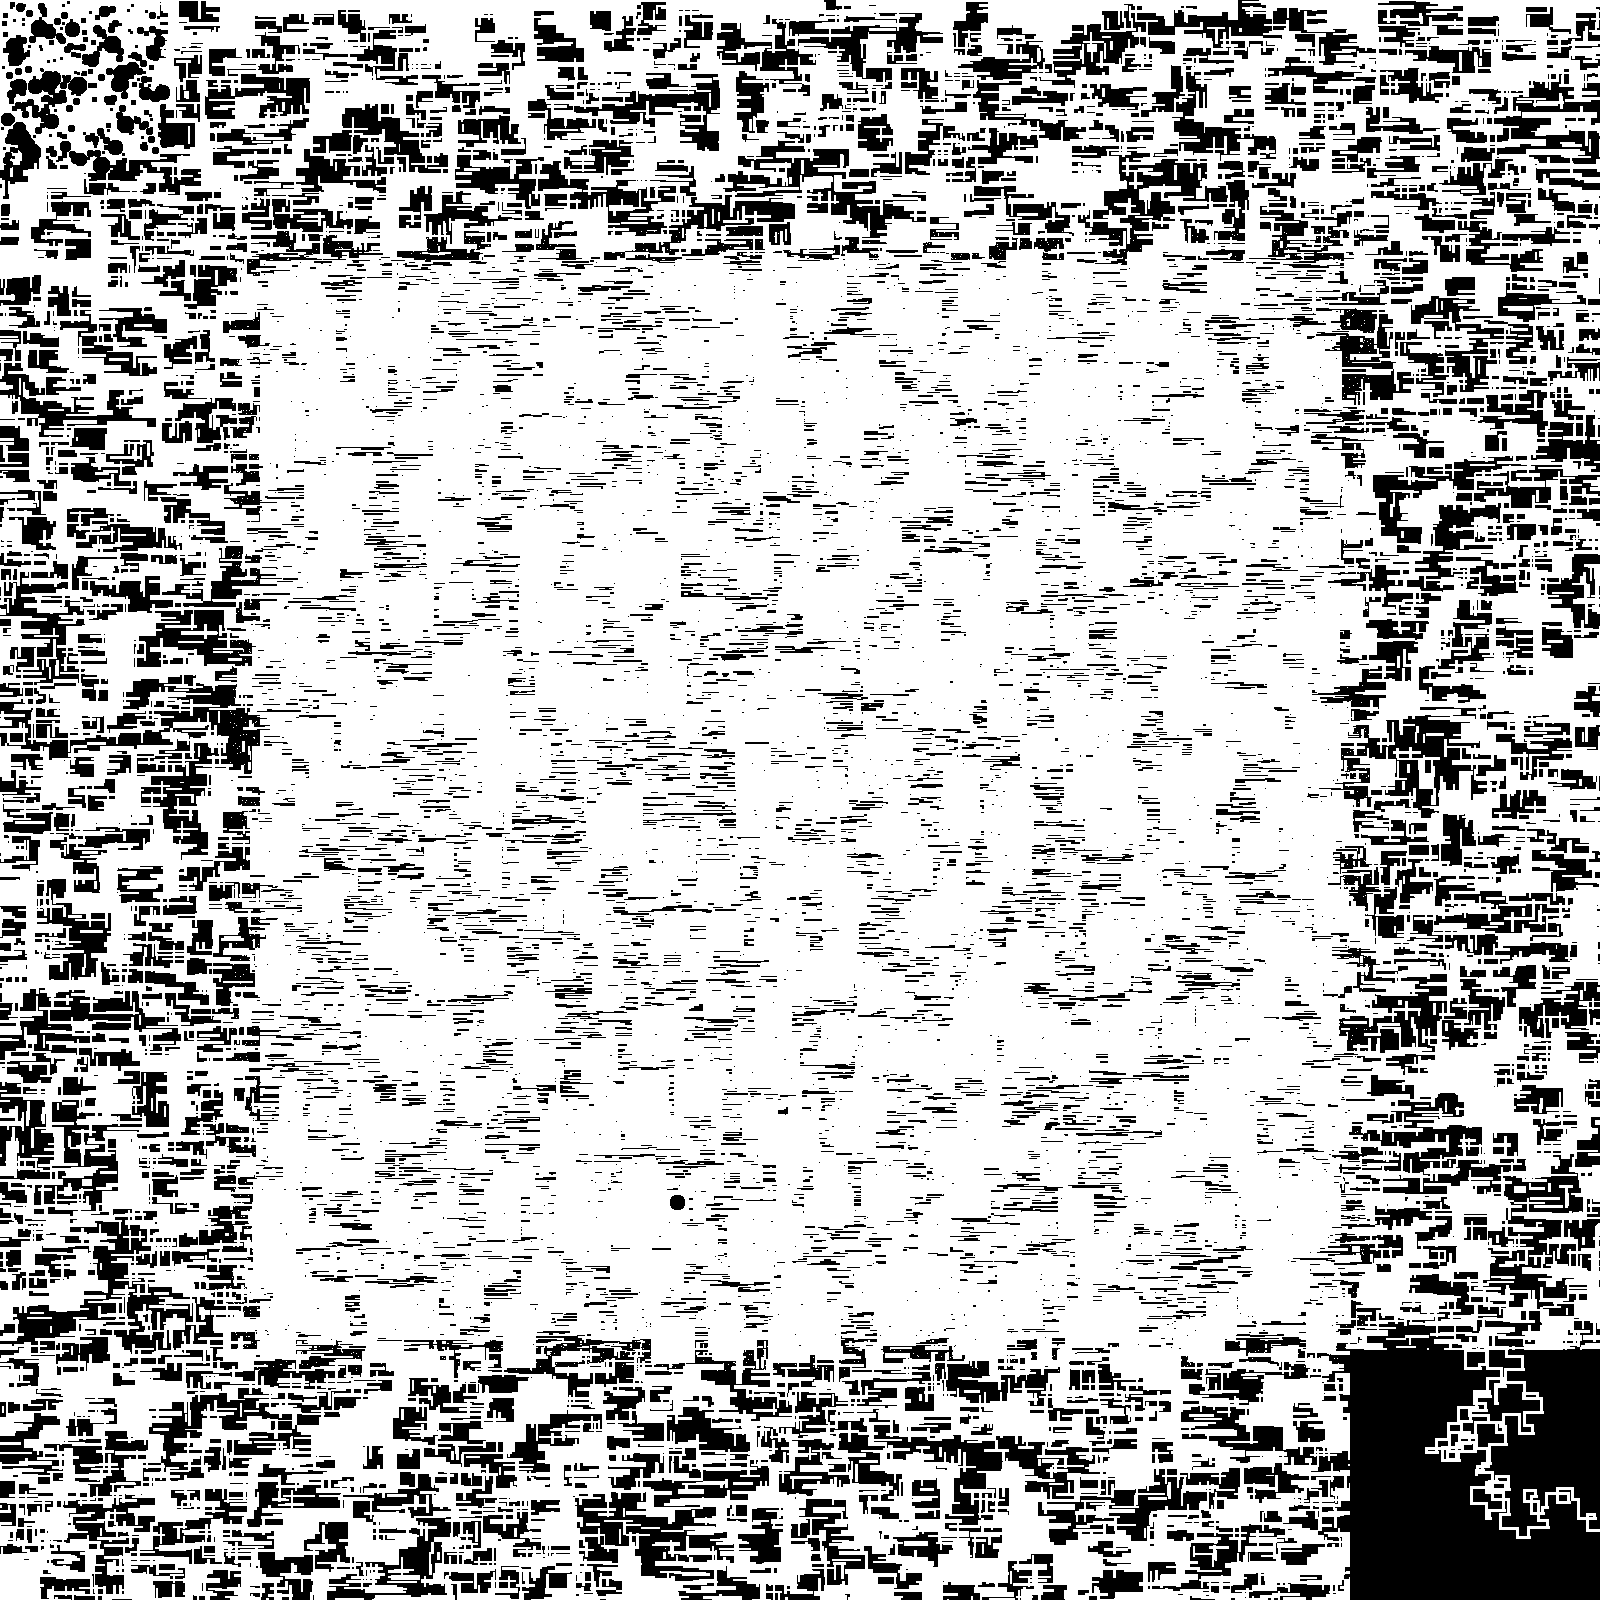
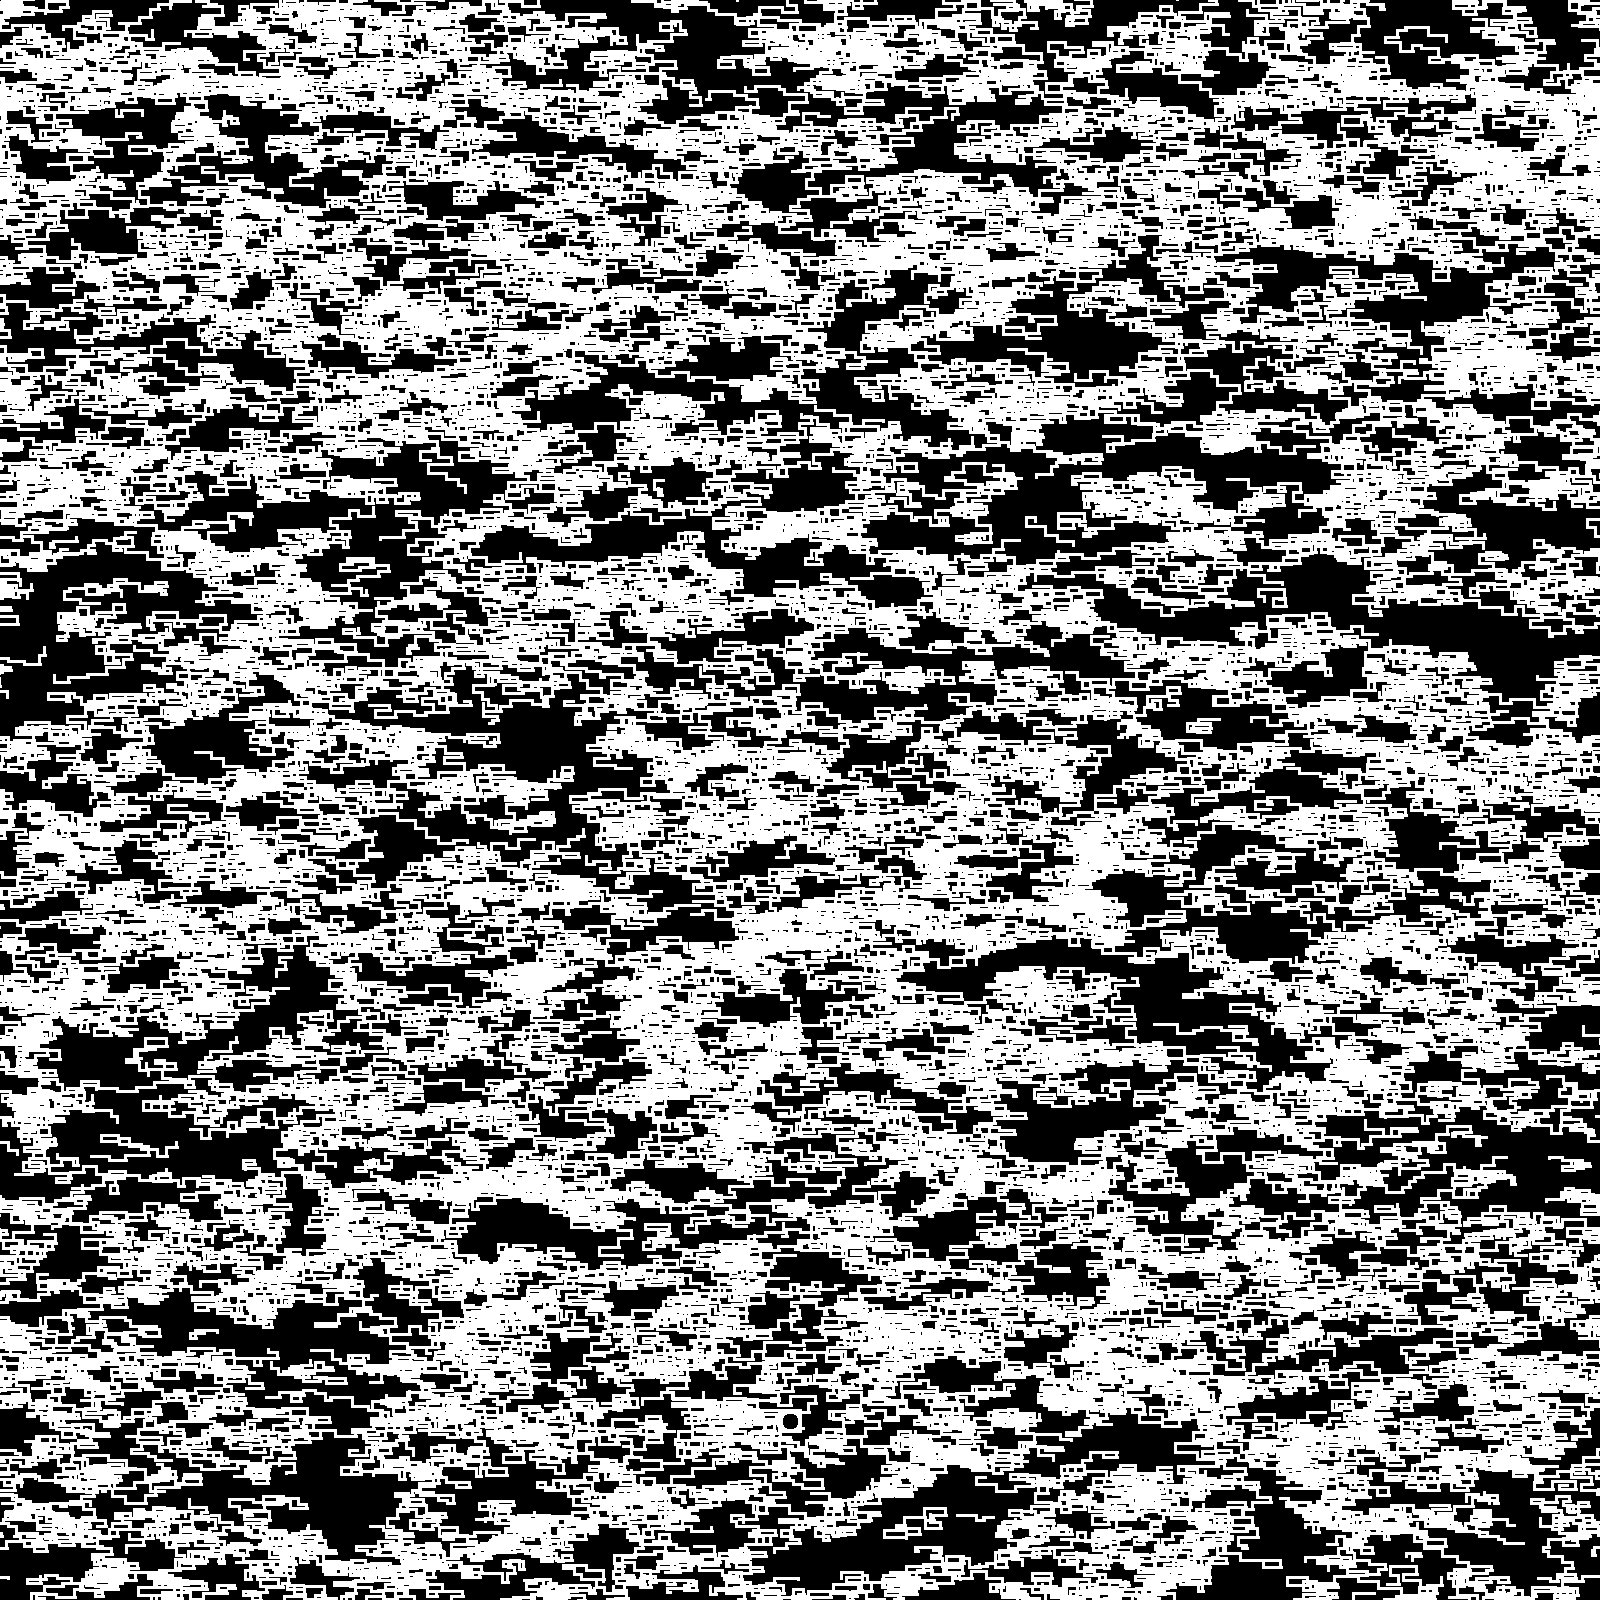
snakes 4 real

diff --git a/map.js b/map.js
@@ -97,7 +97,7 @@ exports.Map.prototype = {
   		}
   	}
 	},
-  circle: function circle(numb,pos_xMin, pos_xMax, pos_yMin, pos_yMax, circleRadiusMin, circleRadiusMax, colourMin, colourMax) {
+  circle: function circle(numb, pos_xMin, pos_xMax, pos_yMin, pos_yMax, circleRadiusMin, circleRadiusMax, colourMin, colourMax) {
     var TSize = (pos_xMax - pos_xMin)*(pos_yMax - pos_yMin);
     var num = Math.floor(TSize/numb);
     for (var y = 0; y < num; y++) {    
@@ -128,32 +128,42 @@ exports.Map.prototype = {
         }
       }
     }
+  },randomSnakes: function randomSnakes(numb, segMin, segMax, posXMin, posXMax, posYMin, posYMax, lengthXMin, lengthXMax, lengthYMin, lengthYMax, thickX, thickY, colourMin, colourMax) {
+    var TSize = (posXMax - posXMin)*(posYMax - posYMin);
+    var num = Math.floor(TSize/numb);
+    for (var j = 0; j < num; j++) {
+      var startX = Math.floor(Math.random()*(posXMax-posXMin+1)+posXMin);
+      var startY = Math.floor(Math.random()*(posYMax-posYMin+1)+posYMin);
+      var seg = Math.floor(Math.random()*(segMax-segMin+1)+segMin);
+      this.snake(seg, startX, startY, lengthXMin, lengthXMax, lengthYMin, lengthYMax, thickX, thickY, colourMin, colourMax);
+    }
   },
-  snake: function snake(seg, startX, startY, lengthMin, lengthMax, thickness, colourMin, colourMax) {
+  snake: function snake(seg, startX, startY, lengthXMin, lengthXMax, lengthYMin, lengthYMax, thickX, thickY, colourMin, colourMax) {
     var PosX = startX;
     var PosY = startY;
     var lastD = Math.floor(Math.random()*4);;
     for (var i = 0; i < seg; i++) {
       var direction = Math.floor(Math.random()*4);
       var randColour = Math.floor(Math.random()*(colourMax-colourMin+1)+colourMin);
-      var randLength = Math.floor(Math.random()*(lengthMax-lengthMin+1)+lengthMin);
+      var randLengthX = Math.floor(Math.random()*(lengthXMax-lengthXMin+1)+lengthXMin);
+      var randLengthY = Math.floor(Math.random()*(lengthYMax-lengthYMin+1)+lengthYMin);
       if (direction === 0) {
         if (lastD === 3) {
-          for (var x = 0; x < randLength; x++) {
-            for (var y = 0; y < thickness; y++) {
+          for (var x = 0; x < randLengthX; x++) {
+            for (var y = 0; y < thickY; y++) {
               this.map[PosX+ret*PosY+x+ret*y] = randColour;
             }
           }
-          PosX = PosX + randLength - 1;
+          PosX = PosX + randLengthX - 1;
           PosY = PosY;
           lastD = 0;
         } else if (lastD === 1) {
-          for (var x = 0; x < randLength; x++) {
-            for (var y = 0; y < thickness; y++) {
-              this.map[PosX+thickness+ret*PosY+x+ret*y] = randColour;
+          for (var x = 0; x < randLengthX; x++) {
+            for (var y = 0; y < thickY; y++) {
+              this.map[PosX+thickX+ret*PosY+x+ret*y] = randColour;
             }
           }
-          PosX = PosX + randLength + thickness - 1;
+          PosX = PosX + randLengthX + thickX - 1;
           PosY = PosY;
           lastD = 0;
         } else {
@@ -161,43 +171,43 @@ exports.Map.prototype = {
         }
       } else if (direction === 1) {
         if (lastD === 0) {
-          for (var x = 0; x < thickness; x++) {
-            for (var y = 0; y < randLength; y++) {
-              this.map[PosX-thickness+ret*PosY+x-ret*y] = randColour;
+          for (var x = 0; x < thickX; x++) {
+            for (var y = 0; y < randLengthY; y++) {
+              this.map[PosX-thickX+ret*PosY+x-ret*y] = randColour;
             }
           }
-          PosX = PosX - thickness;
-          PosY = PosY - randLength + 1;
+          PosX = PosX - thickX;
+          PosY = PosY - randLengthY + 1;
           lastD = 1;
         } else if (lastD === 2) {
-          for (var x = 0; x < thickness; x++) {
-            for (var y = 0; y < randLength; y++) {
+          for (var x = 0; x < thickX; x++) {
+            for (var y = 0; y < randLengthY; y++) {
               this.map[PosX+ret*PosY+x-ret*y] = randColour;
             }
           }
           PosX = PosX;
-          PosY = PosY - randLength + 1;
+          PosY = PosY - randLengthY + 1;
           lastD = 1;
         } else {
           i--;
         }
       } else if (direction === 2) {
         if (lastD === 1) {
-          for (var x = 0; x < randLength; x++) {
-            for (var y = 0; y < thickness; y++) {
+          for (var x = 0; x < randLengthX; x++) {
+            for (var y = 0; y < thickY; y++) {
               this.map[PosX+ret*PosY-x+ret*y] = randColour;
             }
           }
-          PosX = PosX - randLength + 1;
+          PosX = PosX - randLengthX + 1;
           PosY = PosY;
           lastD = 2;
         } else if (lastD === 3) {
-          for (var x = 0; x < randLength; x++) {
-            for (var y = 0; y < thickness; y++) {
-              this.map[PosX+thickness+ret*PosY-x+ret*y] = randColour;
+          for (var x = 0; x < randLengthX; x++) {
+            for (var y = 0; y < thickY; y++) {
+              this.map[PosX+thickX+ret*PosY-x+ret*y] = randColour;
             }
           }
-          PosX = PosX - randLength + thickness + 1;
+          PosX = PosX - randLengthX + thickX + 1;
           PosY = PosY;
           lastD = 2;
         } else {
@@ -205,22 +215,22 @@ exports.Map.prototype = {
         }
       } else {
         if (lastD === 0) {
-          for (var x = 0; x < thickness; x++) {
-            for (var y = 0; y < randLength; y++) {
+          for (var x = 0; x < thickX; x++) {
+            for (var y = 0; y < randLengthY; y++) {
               this.map[PosX+ret*PosY+x+ret*y] = randColour;
             }
           }
           PosX = PosX;
-          PosY = PosY + randLength - 1;
+          PosY = PosY + randLengthY - 1;
           lastD = 3;
         } else if (lastD === 2) {
-          for (var x = 0; x < thickness; x++) {
-            for (var y = 0; y < randLength; y++) {
-              this.map[PosX-thickness+ret*PosY+x+ret*y] = randColour;
+          for (var x = 0; x < thickX; x++) {
+            for (var y = 0; y < randLengthY; y++) {
+              this.map[PosX-thickX+ret*PosY+x+ret*y] = randColour;
             }
           }
-          PosX = PosX - thickness;
-          PosY = PosY + randLength - 1;
+          PosX = PosX - thickX;
+          PosY = PosY + randLengthY - 1;
           lastD = 3;
         } else {
           i--;
@@ -247,13 +257,18 @@ exports.Map.prototype = {
     		this.map[y] = 0;
   	}
   //Build Terrain
+  /*
   //Ground
     this.randomTerrain(500, 0, ret, 0, ret, 20, 30, 20, 30, 17, 45);
     this.randomTerrain(250, 0, ret, 0, ret, 2, 3, 7, 20, 0, 0);
     this.randomTerrain(250, 0, ret, 0, ret, 14, 32, 2, 3, 0, 0);
     this.randomTerrain(750, 0, ret, 0, ret, 24, 38, 4, 6, 0, 0);
     this.randomTerrain(50, 230, ret-230, 230, ret-230, 1, 1, 1, 1, 0, 0);
-    this.makeTerrain(260, 260, ret-520, ret-520, 0, 0);
+    this.makeTerrain(260, 260, ret-520, ret-520, 0, 0); 
+  */
+    this.makeTerrain(0,0,ret,ret,17,45);
+    this.randomSnakes(1000, 5, 50, 0, ret, 0, ret, 6, 24, 4, 10, 3, 3, 0, 0);
+  /*
   //Fire Kingdom
     this.makeTerrain(0, 0, 160, 160, 0, 0);
     this.circle(300,0, 160, 0, 160, 2, 9, 17, 45);
@@ -263,7 +278,7 @@ exports.Map.prototype = {
     this.colouring(1, 0, 100, 0, 100, 1, 4);
   //Ice Kingdom
     this.makeTerrain(ret-250, ret-250, 250, 250, 17, 45);
-    this.snake(200, ret-125, ret-125, 5, 20, 3, 0, 0);
+    this.snake(100, ret-125, ret-125, 5, 20, 5, 20, 3, 3, 0, 0);
     this.colouring(0.3, ret-250, ret-1, ret-250, ret-1, 59, 63);
     this.colouring(0.6, ret-175, ret-1, ret-175, ret-1, 59, 63);
     this.colouring(1, ret-100, ret-1, ret-100, ret-1, 59, 63);
@@ -283,6 +298,7 @@ exports.Map.prototype = {
     //Testing Room lower left corner
     var testRoomSize = 40
     this.makeTerrain(0, ret-testRoomSize, testRoomSize, testRoomSize, 0, 0);
+    */
   //Portal Spawn
   	this.portal(0,ret-24 ,0,ret-24,24,24,8);
   /*Ring Colour Coding
